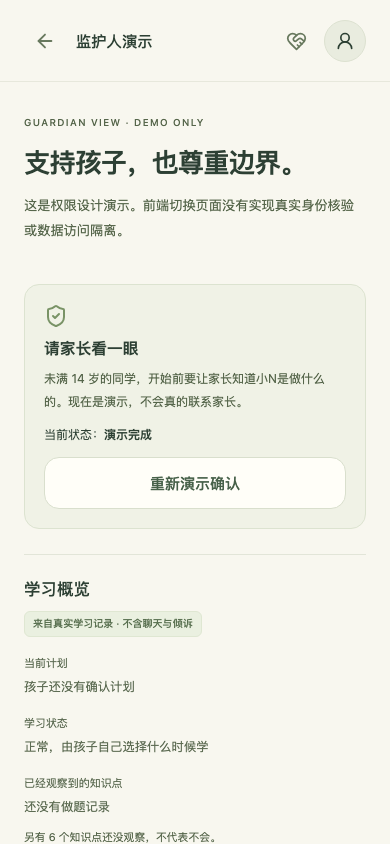
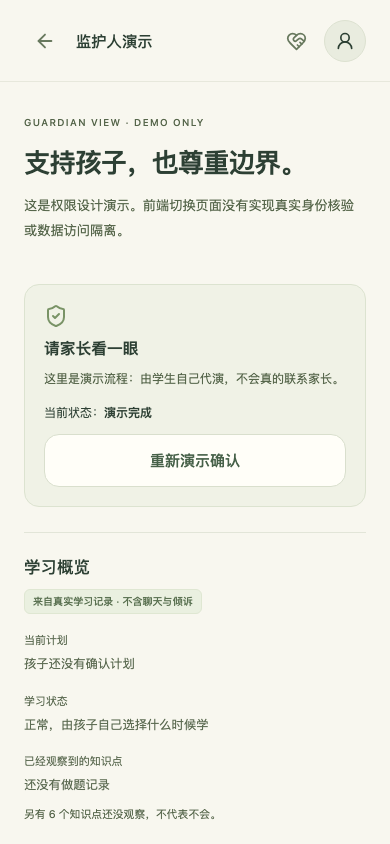
fix(UI): 删掉做不到的承诺句 —— 未满14岁监护人门槛正式取消（产品决定 B）
F.2 那个自相矛盾的状态结束了：界面一直宣称「未满 14 岁的同学，开始前要让家长知道
小N是做什么的」，而系统从头到尾就没拦过任何东西 —— 那是在对中小学生作一个
系统兑现不了的承诺。2026-11-21 产品拍板选 B：正式取消这道门槛，别再宣称。

改动（产品代码只动文案与注释，3 处）：
  src/App.tsx          监护人演示面板删掉承诺句，保留诚实的那半句：
                       「这里是演示流程：由学生自己代演，不会真的联系家长。」
  src/domain.ts        age 字段加注释：门槛已正式取消、该字段只作历史留存；
                       要加回来得先做真实监护人确认，不是把字段接回去就完事
  tests/experience.spec.ts  注释补上这个决定与理由；断言本身不变 ——
                       「没有家长同意也能进入」在门槛取消后仍是产品该保证的东西

保留不动的：服务端监护人同意留痕（T3-3）、监护人演示页、同意流水 UI ——
它们是另一件事（家长能查同意流水），跟「进门要不要拦截」无关。
演示页那句「不会真的联系家长」是实情不是承诺，留着比删掉诚实。

审查报告 §F.2 改写为「已拍板（选项 B）」，并记下诚实边界：删掉承诺句只是让界面
不再说做不到的话，不等于这个产品就有了监护人知情机制 —— 面向中小学生的真实上线
产品，「家长在用之前知情」目前仍没有任何自动化保障。

验证：
  npm run test:all     → exit 0（26/26 + 307/307 + 46/46 + build + build:server）
  npx playwright test  → 4 passed / 14 failed（18 条，10.1 分钟）
                        与改动前基线完全一致；两条监护人相关用例（01、11）都在绿的里面

踩坑记录（已写进审查报告）：跑 Playwright 必须把后端起在 XIAON_REQUIRE_LOGIN=0
（匿名身份）模式，否则测试看到的是登录页，18 条全红但一条都不是代码的问题。

diff --git a/outputs/xiaon/src/domain.ts b/outputs/xiaon/src/domain.ts
@@ -34,6 +34,13 @@ export type State = {
   version: 1;
   onboarded: boolean;
   onboardStep: number;
+  /**
+   * 年龄段。**这道门槛已于 2026-11-21 正式取消**（产品决定，见审查报告 §F.2）：
+   * 改版删掉引导里的年龄问答后 `age` 就没人读了，界面却还在宣称「未满 14 岁要家长知道」，
+   * 而系统不拦任何东西 —— 那是在对中小学生作一个做不到的承诺。
+   * 现在界面与披露里那句承诺已删，**这个字段只作历史留存，不要把它当成一道生效的门槛**。
+   * 要加回来的话得先做真实的监护人确认（能联系到家长并核验），不是把字段接回去就完事。
+   */
   age: string;
   grade: string;
   book: string;

diff --git a/outputs/xiaon/src/App.tsx b/outputs/xiaon/src/App.tsx
@@ -589,7 +589,7 @@ function App() {
         <ShieldCheck size={24} />
         <h3>请家长看一眼</h3>
         <p>
-          未满 14 岁的同学，开始前要让家长知道小N是做什么的。现在是演示，不会真的联系家长。
+          这里是演示流程：由学生自己代演，不会真的联系家长。
         </p>
         <div className="status-line">
           当前状态：

diff --git a/文档/审查/2026-11-21-全项目设计原则审查.md b/文档/审查/2026-11-21-全项目设计原则审查.md
@@ -564,15 +564,14 @@ server→src 依赖**清零**；并加了 `npm run check:layers` 门禁防止长
 | `roles.ts:192` 权限指纹 25ms 轮询的实际 CPU 占比 | **待验** | 静态推算 O(S×E) 次 JSON.parse，未测。 |
 | hedge 对冲重发的双路计费比例 | **待验** | 仓库内无埋点。 |
 | 依赖 CVE | **未做** | 本轮未联网比对。 |
-| 「未满 14 岁要先有监护人知情」的门槛 | **待产品拍板** | 改版中被删掉，现在界面在宣称、系统不拦（§F.2）。这是产品/合规决定，本轮不擅自加回也不擅自改文案。 |
+| 「未满 14 岁要先有监护人知情」的门槛 | **已拍板（选项 B）** | 2026-11-21 用户拍板正式取消，界面里那句承诺已删（§F.2）。**诚实边界**：删掉承诺 ≠ 有了监护人知情机制，目前没有任何自动化保障。 |
 | 14 条 Playwright 用例按新 IA 重写 | **未做** | 首页已重做语音聊天式，旧用例走的是「首页一键看题」那条路（§F.4）。要按产品口径重写，不硬改。 |
 | 重建离线体验包 `public/offline.html` | **未做** | 现在还是 10/21 的旧版 UI（§F.3）。重建要 `npm run build:offline`，且 Godot 导出的 `public/starbrook/*` 被 gitignore，得先确认本机二进制还在。 |
 
 ## E. 下一轮的建议顺序
 
-1. **产品决定：未满 14 岁的监护人门槛加不加回来**（见 §F.2）。这是**产品/合规决定，不是重构**，
-   需要拍板后才能改 UI 或改文案。
-2. **真机确认 `/data` 可写**（唯一挡住上线的未知项）。
+1. ~~**产品决定：未满 14 岁的监护人门槛加不加回来**~~ → **已拍板（2026-11-21，选 B 正式取消并删掉承诺句）**，见 §F.2。
+2. **真机确认 `/data` 可写**（唯一挡住上线的未知项）→ **已实测结案**（2026-11-21 部署 `385b27f` 时，以 uid 1000 实测写 `/data/users` 成功）。
 3. 把 `App.tsx` 按页面拆成 `src/pages/*`（2792 行 → 多文件），拆的时候顺带把导航真值统一。
    **前置条件：Playwright 回归网要真的绿**（§F.1 已修好入口，剩下的是逐条用例对不上新 UI 的问题）。
 4. 4 个游戏组件的壳层抽成 `useGameShell`，判分逻辑保持不动。
@@ -611,7 +610,9 @@ server→src 依赖**清零**；并加了 `npm run check:layers` 门禁防止长
 也就是说**这个 bug 从 spec 写下那天起就一直在**，只是 spec 同时被 UI 改版带坏了，
 所有人看到的都是「找不到按钮」，没人走到那一步。
 
-### F.2 【读码 + 读历史 · P0 · 待产品决定】「未满 14 岁要先有监护人知情」这道门槛，在改版中被删掉了
+### F.2 【读码 + 读历史 · P0 · 已拍板（2026-11-21）】「未满 14 岁要先有监护人知情」这道门槛，在改版中被删掉了
+
+> **产品决定（2026-11-21，用户拍板）**：选**选项 B** —— **正式取消这道门槛，并把界面与披露里那句承诺删掉，别再宣称。**
 
 **改版前（`c88970d` 的父提交 `2e80f82`）确实有这道拦截**，两处：
 
@@ -626,17 +627,47 @@ server→src 依赖**清零**；并加了 `npm run check:layers` 门禁防止长
 - `finishIntroduction()` 不看年龄、不看 `s.guardian` → **谁都能直接进**；
 - 监护人面板挪到了「我的与设置 → 监护人演示」，是个**没人会主动进的角落**。
 
-**现状是自相矛盾的**：界面里还写着「未满 14 岁的同学，开始前要让家长知道小N是做什么的」，
+**改版后的现状是自相矛盾的**：界面里还写着「未满 14 岁的同学，开始前要让家长知道小N是做什么的」，
 但系统**不做任何拦截**。而本轮 T3-3 刚把「监护人同意」做成了服务端追加式留痕 ——
 **主路径上根本不会触发它**，只有手动去演示页点一下才会写一条。
 
-**这是产品/合规决定，不是重构**，需要拍板：
-- **选项 A**：把年龄门槛加回来（引导里问一次年龄段，未满 14 走监护人确认才能继续）；
-- **选项 B**：正式取消这道门槛，那就把界面与披露里「未满 14 岁要家长知道」的话改掉，别再宣称。
+**拍板理由**：这句话是在对中小学生作一个**系统兑现不了的承诺**。当前监护人确认只是本地演示开关
+（「现在是演示，不会真的联系家长」），所以选项 A 在家长确认做成真的之前，挡的是一个孩子自己就能点过去的开关 ——
+**加了门槛也不产生真实保护**，却让界面显得更安全。所以选 B：把承诺删掉，界面不再宣称。
 
-**在拍板之前，本轮不擅自改 UI**（改错了会把「有门槛」这个承诺悄悄变成「没门槛」，比留着矛盾更糟）。
-Playwright 用例 `01` 已按**当前**行为写（名字里明确写了「没有家长同意也能进入」），
-等决定下来再把断言改成对应的那一边。
+**落地改动（3 处，产品代码只动文案与注释）**：
+
+| 位置 | 改动 |
+|---|---|
+| `src/App.tsx` 监护人演示面板 | 删掉承诺句「未满 14 岁的同学，开始前要让家长知道小N是做什么的。」，保留诚实的那半句：「这里是演示流程：由学生自己代演，不会真的联系家长。」 |
+| `src/domain.ts` 的 `age` 字段 | 加注释标明**这道门槛已正式取消**、该字段只作历史留存，别当成生效的门槛；**要加回来得先做真实的监护人确认（能联系到家长并核验），不是把字段接回去就完事** |
+| `tests/experience.spec.ts` 用例 `01` | 注释补上这个决定与理由。**断言本身不变**——「没有家长同意也能进入」在门槛取消后依然是产品该保证的东西 |
+
+**保留不动的**：服务端监护人同意留痕（T3-3）、监护人演示页本身、同意流水 UI。
+理由是它们本来就是**另一件事**（家长能查同意流水），跟"进门要不要拦截"无关，删了是白删。
+演示页仍如实写着"不会真的联系家长"——这句是**实情**，不是承诺，留着比删掉诚实。
+
+**诚实边界**：删掉承诺句只是让界面不再说做不到的话，**不等于这个产品就有了监护人知情机制**。
+面向中小学生的真实上线产品，"家长在用之前知情"这件事目前**没有任何自动化保障**，
+只能靠部署方自己在校外/家里告知。这一点没有被这次改动解决，只是从"宣称有"变成"不宣称"。
+
+**改动后的回归网实测（2026-11-21，独立重跑）**：
+
+```
+npm run test:all          → exit 0（26/26 + 307/307 + 46/46 + build + build:server）
+npx playwright test       → 4 passed / 14 failed（18 条，10.1 分钟）
+```
+
+4 条绿的与改动前基线**完全一致**，其中两条直接覆盖被改的面板：
+
+- ✓ `accessibility.spec.ts` 四个主页面的 WCAG A/AA 自动检查（1.5s）
+- ✓ `experience.spec.ts` **01 首次进入…没有家长同意也能进入**（941ms）← 跑的就是监护人演示面板
+- ✓ `experience.spec.ts` 11 监护人信息申请范围、必要核验、处理中、结果（2.0s）
+- ✓ `offline.spec.ts` 单文件体验版无需其他资源即可走通看题与恢复（2.2s）
+
+**踩坑记录**：跑 Playwright 必须把后端起在 `XIAON_REQUIRE_LOGIN=0`（匿名身份）模式。
+默认是要手机号登录的，测试打开看到的是登录页，等主页面元素等到 45 秒超时 —— **18 条全红，但一条都不是代码的问题**。
+这个坑和"回归网坏了"长得很像，别误判。
 
 ### F.3 【实测】离线体验包 `public/offline.html` 还是 10/21 的旧版 UI
 
